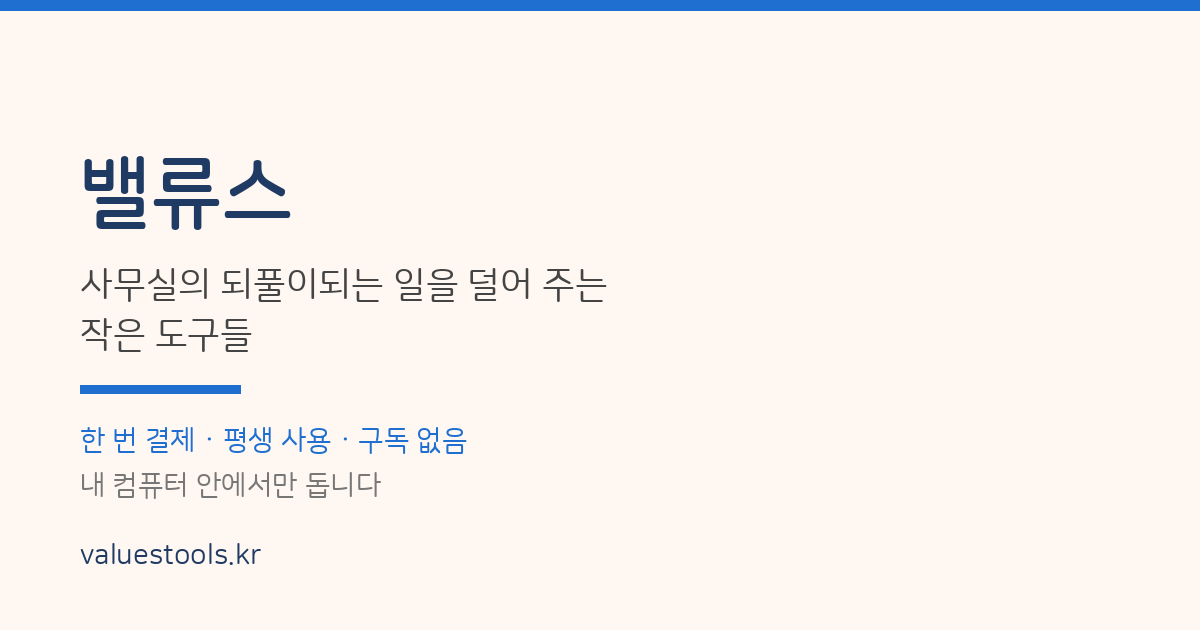
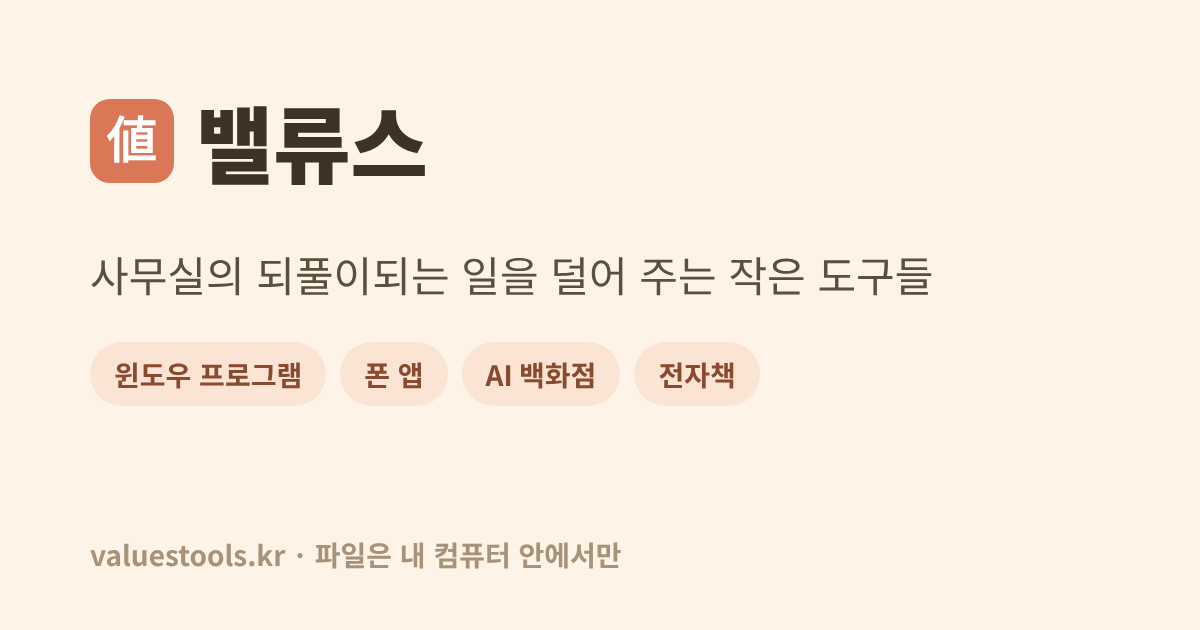
Share images: English card for English pages, updated Korean card

diff --git a/en.html b/en.html
@@ -79,25 +79,25 @@ footer a{color:var(--terra);text-decoration:none}
 <meta property="og:title" content="VALUES — small desktop tools that take the repetition out of office work">
 <meta property="og:description" content="Everything runs on your own computer and your files are never uploaded. Table merging, document filling, list comparison, offline interpreting.">
 <meta property="og:url" content="https://valuestools.kr/en.html">
-<meta property="og:image" content="https://valuestools.kr/og.png">
+<meta property="og:image" content="https://valuestools.kr/og-en.png">
 <meta property="og:image:width" content="1200">
 <meta property="og:image:height" content="630">
 <meta name="twitter:card" content="summary_large_image">
 <meta name="twitter:title" content="VALUES — small desktop tools, your files stay on your PC">
 <meta name="twitter:description" content="Everything runs on your own computer.">
-<meta name="twitter:image" content="https://valuestools.kr/og.png">
+<meta name="twitter:image" content="https://valuestools.kr/og-en.png">
 </head>
 <body>
 <nav><div class="shell">
 <a class="brand" href="en.html"><span class="stamp">値</span><b>VALUES</b></a>
-<a class="kr" href="ai/?lang=en" style="font-weight:700">✨ AI Store</a>
+<a class="kr" href="ai/en.html" style="font-weight:700">✨ AI Store</a>
 <a class="kr" href="#books">📚 Books</a>
 <a class="kr" href="review.html">💬 Reviews</a>
 <a class="kr" href="institution.html">🏫 For schools &amp; offices</a>
 <a class="kr" href="./">🇰🇷 한국어 페이지</a>
 </div></nav>
 
-<a href="ai/?lang=en" style="display:block;text-decoration:none;color:inherit;background:var(--terra-soft,#FBE4D3);border-bottom:1px solid var(--line,#EAD9BE)"><div class="shell" style="padding:12px 20px;display:flex;gap:10px;align-items:center;flex-wrap:wrap;font-size:15px"><b>✨ New · VALUES AI Store</b><span style="opacity:.8">Is this text a scam? · School notices on one page · Forgotten subscriptions — free, no sign-up, stays in your browser</span><span style="margin-left:auto;font-weight:700">Go in →</span></div></a>
+<a href="ai/en.html" style="display:block;text-decoration:none;color:inherit;background:var(--terra-soft,#FBE4D3);border-bottom:1px solid var(--line,#EAD9BE)"><div class="shell" style="padding:12px 20px;display:flex;gap:10px;align-items:center;flex-wrap:wrap;font-size:15px"><b>✨ New · VALUES AI Store</b><span style="opacity:.8">Is this text a scam? · School notices on one page · Forgotten subscriptions — free, no sign-up, stays in your browser</span><span style="margin-left:auto;font-weight:700">Go in →</span></div></a>
 
 <header class="hero"><div class="shell">
 <h1>Small tools that make work <span class="warm">lighter</span>.</h1>
@@ -316,7 +316,7 @@ The summarising happens <b>on your own computer</b> — no AI service, no server
 
 
 <div class="howbuy" id="everything">
-<b>🧡 VALUES Everything:</b> every paid Windows tool on this page — all twenty, including Interpreter Desk — plus every room in the <a href="ai/?lang=en">AI Store</a>, for <b>$10.99 a month (₩14,900)</b> or <b>$109.90 a year</b>. Subscribed one by one the twenty would cost about $42 a month. <span style="opacity:.75">(Capture Crayons, PDF Mending Kit, Folder Keeper and Name Tagger stay free for everyone. Automation Assistant and AI Office Worker are sold separately.)</span><br>
+<b>🧡 VALUES Everything:</b> every paid Windows tool on this page — all twenty, including Interpreter Desk — plus every room in the <a href="ai/en.html">AI Store</a>, for <b>$10.99 a month (₩14,900)</b> or <b>$109.90 a year</b>. Subscribed one by one the twenty would cost about $42 a month. <span style="opacity:.75">(Capture Crayons, PDF Mending Kit, Folder Keeper and Name Tagger stay free for everyone. Automation Assistant and AI Office Worker are sold separately.)</span><br>
 <a class="go" href="javascript:void(0)" onclick="payWithPaddle('bundle')">Subscribe monthly</a> <a class="go line" href="javascript:void(0)" onclick="payWithPaddle('bundle','y')">Yearly $109.90</a>
 <br><br>
 <b>How international orders work:</b> card checkout above is powered by Paddle and works with international cards.

diff --git a/form-fill-guide-en.html b/form-fill-guide-en.html
@@ -9,7 +9,7 @@
 <link rel="alternate" hreflang="ko" href="https://valuestools.kr/form-fill-guide.html">
 <meta property="og:title" content="One template, many certificates">
 <meta property="og:description" content="Thirty certificates without saving thirty times: mail merge from a name list, and the places it usually breaks — dates, decimals and long names.">
-<meta property="og:image" content="https://valuestools.kr/og.png">
+<meta property="og:image" content="https://valuestools.kr/og-en.png">
 <meta property="og:url" content="https://valuestools.kr/form-fill-guide-en.html">
 <meta property="og:type" content="article">
 <link rel="preconnect" href="https://fonts.googleapis.com">

diff --git a/pdf-table-guide-en.html b/pdf-table-guide-en.html
@@ -9,7 +9,7 @@
 <link rel="alternate" hreflang="ko" href="https://valuestools.kr/pdf-table-guide.html">
 <meta property="og:title" content="Getting a table out of a PDF into Excel">
 <meta property="og:description" content="Stop retyping tables from PDFs. Three free ways to get them into Excel, what usually breaks, and what to do when the PDF is a scan.">
-<meta property="og:image" content="https://valuestools.kr/og.png">
+<meta property="og:image" content="https://valuestools.kr/og-en.png">
 <meta property="og:url" content="https://valuestools.kr/pdf-table-guide-en.html">
 <meta property="og:type" content="article">
 <link rel="preconnect" href="https://fonts.googleapis.com">

diff --git a/namelist-guide-en.html b/namelist-guide-en.html
@@ -9,7 +9,7 @@
 <link rel="alternate" hreflang="ko" href="https://valuestools.kr/namelist-guide.html">
 <meta property="og:title" content="Comparing two name lists in Excel">
 <meta property="og:description" content="Who is missing, who appears twice — one COUNTIF line, and the four reasons names that look identical refuse to match.">
-<meta property="og:image" content="https://valuestools.kr/og.png">
+<meta property="og:image" content="https://valuestools.kr/og-en.png">
 <meta property="og:url" content="https://valuestools.kr/namelist-guide-en.html">
 <meta property="og:type" content="article">
 <link rel="preconnect" href="https://fonts.googleapis.com">

diff --git a/prepare-guide-en.html b/prepare-guide-en.html
@@ -9,7 +9,7 @@
 <link rel="alternate" hreflang="ko" href="https://valuestools.kr/prepare-guide.html">
 <meta property="og:title" content="The night before something important">
 <meta property="og:description" content="Instead of memorising your lines, write the five questions you least want to hear and give each a two-sentence answer.">
-<meta property="og:image" content="https://valuestools.kr/og.png">
+<meta property="og:image" content="https://valuestools.kr/og-en.png">
 <meta property="og:url" content="https://valuestools.kr/prepare-guide-en.html">
 <meta property="og:type" content="article">
 <link rel="preconnect" href="https://fonts.googleapis.com">

diff --git a/focus-guide-en.html b/focus-guide-en.html
@@ -9,7 +9,7 @@
 <link rel="alternate" hreflang="ko" href="https://valuestools.kr/focus-guide.html">
 <meta property="og:title" content="When you want to do too many things">
 <meta property="og:description" content="Write twenty-five, keep five, and move the other twenty from “later” to “not now” — on paper, in thirty minutes.">
-<meta property="og:image" content="https://valuestools.kr/og.png">
+<meta property="og:image" content="https://valuestools.kr/og-en.png">
 <meta property="og:url" content="https://valuestools.kr/focus-guide-en.html">
 <meta property="og:type" content="article">
 <link rel="preconnect" href="https://fonts.googleapis.com">

diff --git a/habit-guide-en.html b/habit-guide-en.html
@@ -9,7 +9,7 @@
 <link rel="alternate" hreflang="ko" href="https://valuestools.kr/habit-guide.html">
 <meta property="og:title" content="One habit a week, not five at once">
 <meta property="og:description" content="Benjamin Franklin’s method: write the changes you want, then give each one a week of its own and go round again.">
-<meta property="og:image" content="https://valuestools.kr/og.png">
+<meta property="og:image" content="https://valuestools.kr/og-en.png">
 <meta property="og:url" content="https://valuestools.kr/habit-guide-en.html">
 <meta property="og:type" content="article">
 <link rel="preconnect" href="https://fonts.googleapis.com">

diff --git a/questions-guide-en.html b/questions-guide-en.html
@@ -9,7 +9,7 @@
 <link rel="alternate" hreflang="ko" href="https://valuestools.kr/questions-guide.html">
 <meta property="og:title" content="When nothing you read sticks">
 <meta property="og:description" content="Keep a short list of questions you actually care about, and hang each new idea on one of them — or let it go.">
-<meta property="og:image" content="https://valuestools.kr/og.png">
+<meta property="og:image" content="https://valuestools.kr/og-en.png">
 <meta property="og:url" content="https://valuestools.kr/questions-guide-en.html">
 <meta property="og:type" content="article">
 <link rel="preconnect" href="https://fonts.googleapis.com">

diff --git a/smalltest-guide-en.html b/smalltest-guide-en.html
@@ -9,7 +9,7 @@
 <link rel="alternate" hreflang="ko" href="https://valuestools.kr/smalltest-guide.html">
 <meta property="og:title" content="Before you spend the money">
 <meta property="og:description" content="Try it first at a size where failing costs nothing: small money, one week, somewhere nobody you know is watching.">
-<meta property="og:image" content="https://valuestools.kr/og.png">
+<meta property="og:image" content="https://valuestools.kr/og-en.png">
 <meta property="og:url" content="https://valuestools.kr/smalltest-guide-en.html">
 <meta property="og:type" content="article">
 <link rel="preconnect" href="https://fonts.googleapis.com">

diff --git a/failure-guide-en.html b/failure-guide-en.html
@@ -9,7 +9,7 @@
 <link rel="alternate" hreflang="ko" href="https://valuestools.kr/failure-guide.html">
 <meta property="og:title" content="Not making the same mistake twice">
 <meta property="og:description" content="Five boxes, fifteen minutes: turning something that went wrong into one rule you will actually use next time.">
-<meta property="og:image" content="https://valuestools.kr/og.png">
+<meta property="og:image" content="https://valuestools.kr/og-en.png">
 <meta property="og:url" content="https://valuestools.kr/failure-guide-en.html">
 <meta property="og:type" content="article">
 <link rel="preconnect" href="https://fonts.googleapis.com">

diff --git a/limit-guide-en.html b/limit-guide-en.html
@@ -9,7 +9,7 @@
 <link rel="alternate" hreflang="ko" href="https://valuestools.kr/limit-guide.html">
 <meta property="og:title" content="Why resolutions die on day three">
 <meta property="og:description" content="It is not willpower — the first day’s bar was set too high. How to draw a floor and a ceiling, with examples.">
-<meta property="og:image" content="https://valuestools.kr/og.png">
+<meta property="og:image" content="https://valuestools.kr/og-en.png">
 <meta property="og:url" content="https://valuestools.kr/limit-guide-en.html">
 <meta property="og:type" content="article">
 <link rel="preconnect" href="https://fonts.googleapis.com">

diff --git a/regret-guide-en.html b/regret-guide-en.html
@@ -9,7 +9,7 @@
 <link rel="alternate" hreflang="ko" href="https://valuestools.kr/regret-guide.html">
 <meta property="og:title" content="Stuck on a big decision">
 <meta property="og:description" content="Six boxes on one sheet of paper, built around the regret-minimisation question Jeff Bezos asked himself in 1994.">
-<meta property="og:image" content="https://valuestools.kr/og.png">
+<meta property="og:image" content="https://valuestools.kr/og-en.png">
 <meta property="og:url" content="https://valuestools.kr/regret-guide-en.html">
 <meta property="og:type" content="article">
 <link rel="preconnect" href="https://fonts.googleapis.com">
